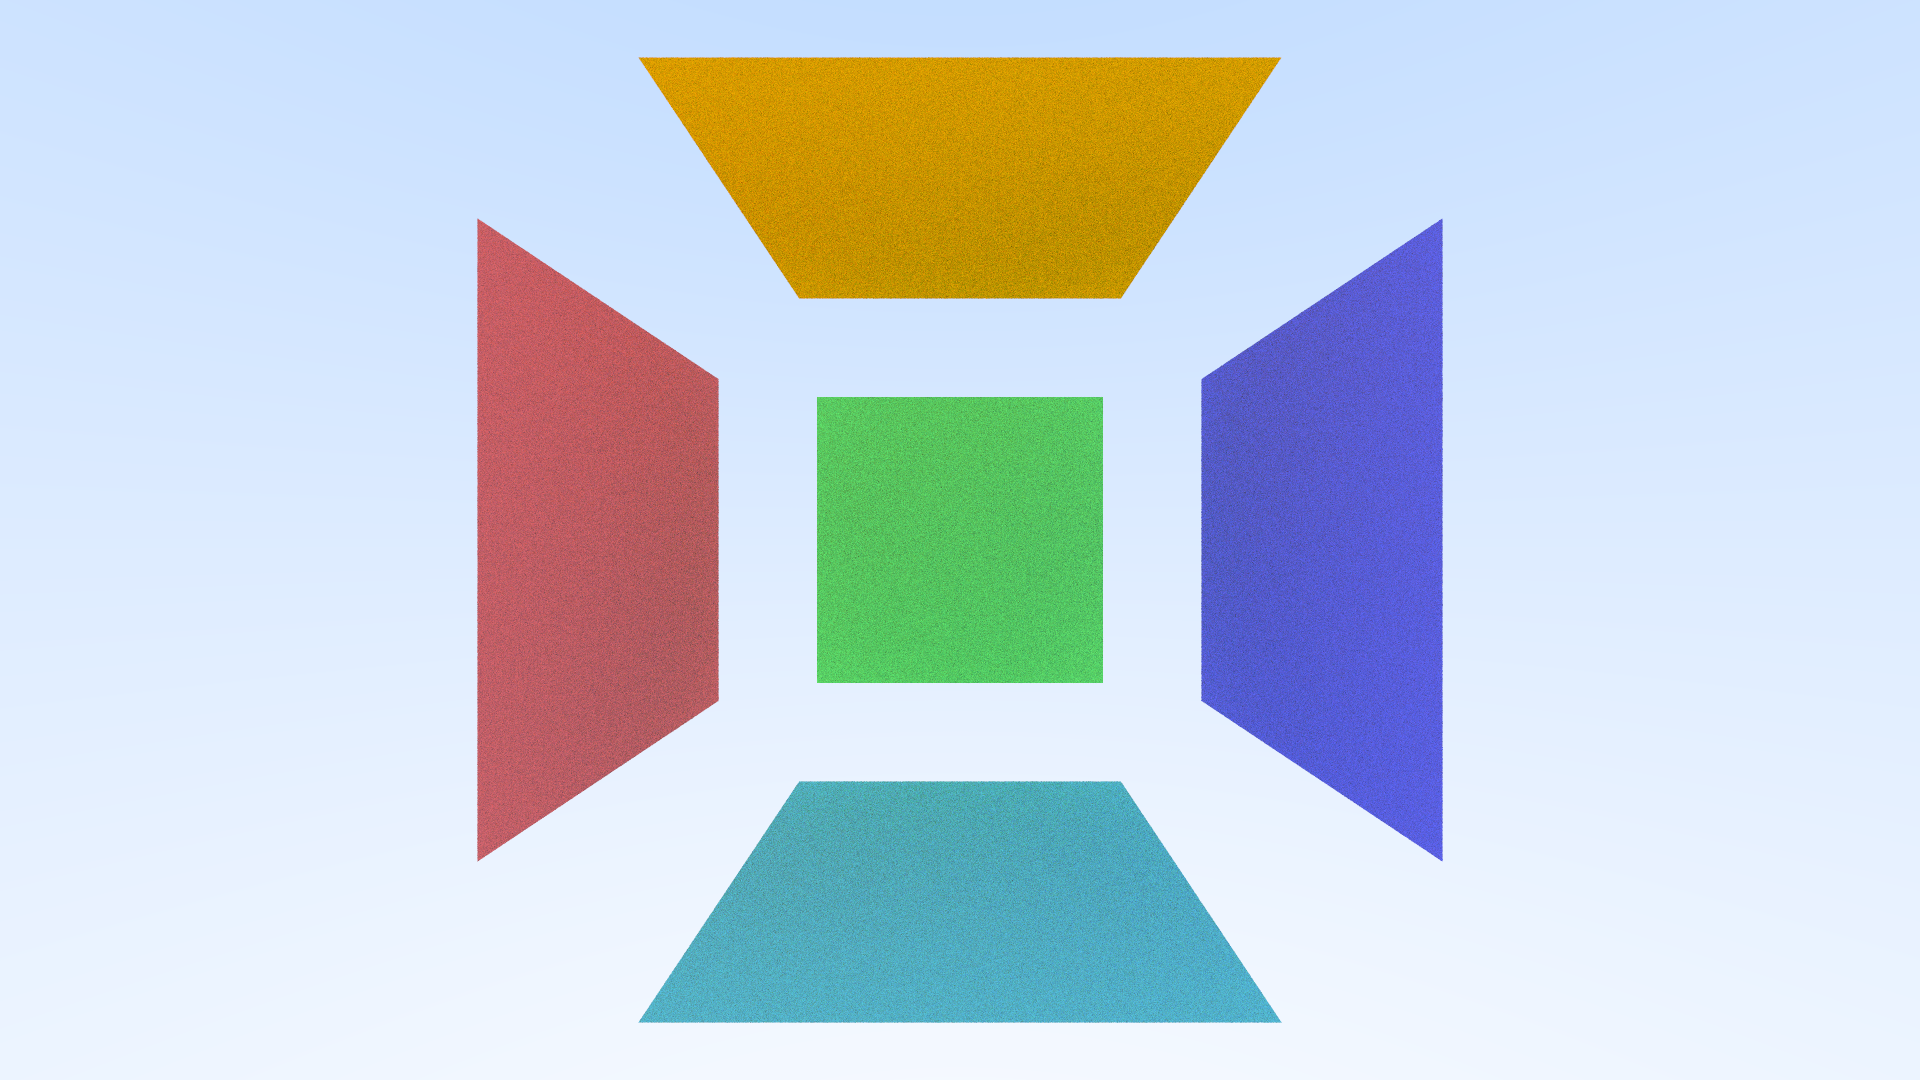
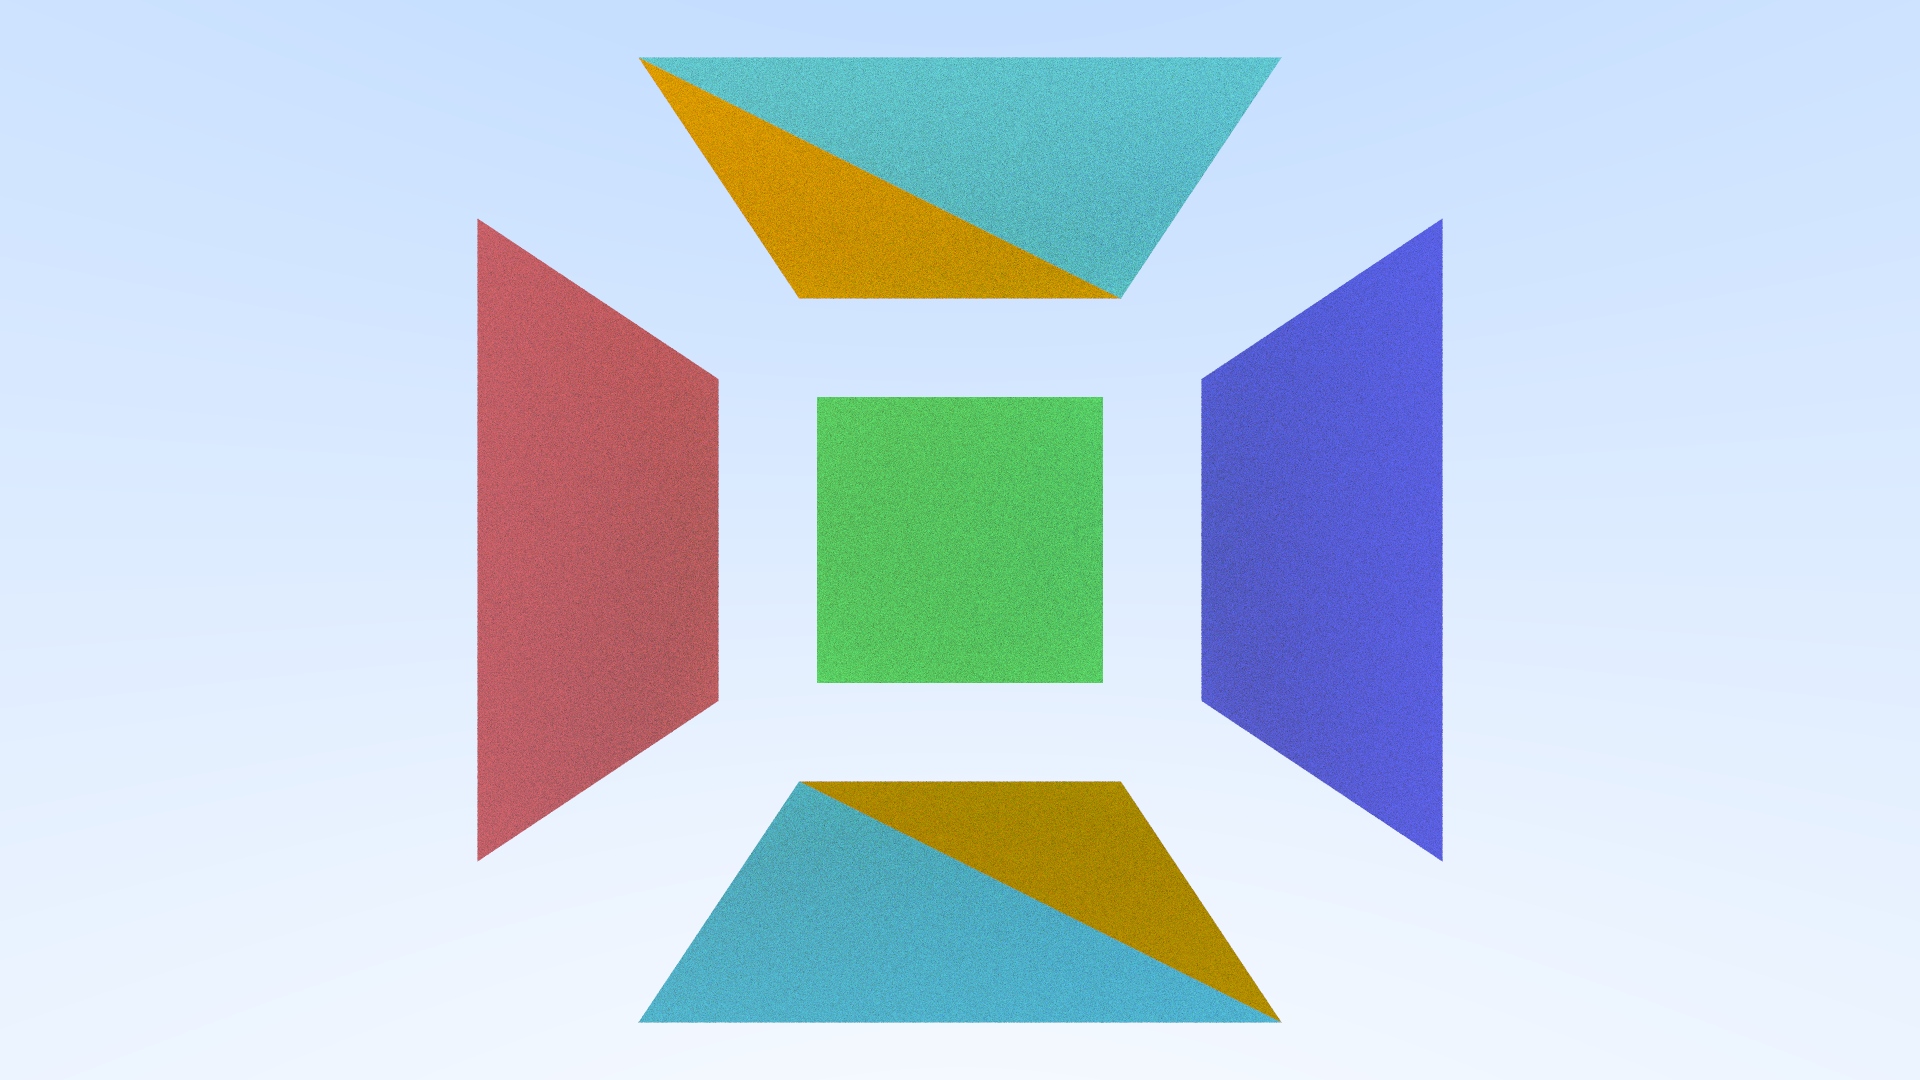
added triangles

diff --git a/src/bin/render.rs b/src/bin/render.rs
@@ -14,7 +14,12 @@ use simple_ray_tracer::{
 
 use simple_ray_tracer_kernels::{
     color::Color,
-    hitables::{HitKind, hitable_list_builder::HitableListBuilder, planar::Quad, sphere::Sphere},
+    hitables::{
+        HitKind,
+        hitable_list_builder::HitableListBuilder,
+        planar::{Quad, Triangle},
+        sphere::Sphere,
+    },
     materials::{dielectric::Dielectric, lambertian::Lambertian, metal::Metal},
     random::RandomRange,
     textures::{
@@ -138,7 +143,7 @@ fn perlin_spheres<'a>(options: &mut RenderOptions) -> HitableListBuilder<'a> {
     world
 }
 
-fn quads<'a>(options: &mut RenderOptions) -> HitableListBuilder<'a> {
+fn planar<'a>(options: &mut RenderOptions) -> HitableListBuilder<'a> {
     let mut world: HitableListBuilder<'_> = HitableListBuilder::new();
 
     // Materials
@@ -146,6 +151,8 @@ fn quads<'a>(options: &mut RenderOptions) -> HitableListBuilder<'a> {
     let back_green = Lambertian::new(SolidTexture::new(Color::new(0.2, 1.0, 0.2)).into());
     let right_blue = Lambertian::new(SolidTexture::new(Color::new(0.2, 0.2, 1.0)).into());
     let upper_orange = Lambertian::new(SolidTexture::new(Color::new(1.0, 0.5, 0.0)).into());
+    let upper_teal = Lambertian::new(SolidTexture::new(Color::new(0.2, 0.8, 0.8)).into());
+    let lower_orange = Lambertian::new(SolidTexture::new(Color::new(1.0, 0.5, 0.0)).into());
     let lower_teal = Lambertian::new(SolidTexture::new(Color::new(0.2, 0.8, 0.8)).into());
 
     // Quads
@@ -177,20 +184,38 @@ fn quads<'a>(options: &mut RenderOptions) -> HitableListBuilder<'a> {
         .into(),
     );
     world.add(
-        Quad::new(
+        Triangle::new(
+            Point3::new(-2.0, 3.0, 5.0),
+            Point3::new(2.0, 3.0, 5.0),
+            Point3::new(2.0, 3.0, 1.0),
+            upper_teal,
+        )
+        .into(),
+    );
+    world.add(
+        Triangle::new(
+            Point3::new(-2.0, 3.0, 5.0),
+            Point3::new(2.0, 3.0, 1.0),
             Point3::new(-2.0, 3.0, 1.0),
-            Vec3::new(4.0, 0.0, 0.0),
-            Vec3::new(0.0, 0.0, 4.0),
             upper_orange,
         )
         .into(),
     );
     world.add(
-        Quad::new(
+        Triangle::new(
             Point3::new(-2.0, -3.0, 5.0),
-            Vec3::new(4.0, 0.0, 0.0),
-            Vec3::new(0.0, 0.0, -4.0),
+            Point3::new(2.0, -3.0, 5.0),
+            Point3::new(-2.0, -3.0, 1.0),
             lower_teal,
+        )
+        .into(),
+    );
+    world.add(
+        Triangle::new(
+            Point3::new(2.0, -3.0, 5.0),
+            Point3::new(2.0, -3.0, 1.0),
+            Point3::new(-2.0, -3.0, 1.0),
+            lower_orange,
         )
         .into(),
     );
@@ -216,7 +241,7 @@ fn main() -> Result<()> {
         1 => bouncing_spheres()?,
         2 => earth(&mut options.render, &earth_image),
         3 => perlin_spheres(&mut options.render),
-        4 => quads(&mut options.render),
+        4 => planar(&mut options.render),
         _ => {
             panic!("Unknown scene {}", scene);
         }

diff --git a/kernels/src/hitables/planar.rs b/kernels/src/hitables/planar.rs
@@ -79,6 +79,63 @@ impl Plane {
 #[repr(C)]
 #[derive(Builder)]
 #[use_lifetime("'a")]
+pub struct Triangle<'a> {
+    origin: Point3,
+    u: Vec3,
+    v: Vec3,
+    plane: Plane,
+    mat: MaterialKind<'a>,
+}
+
+impl<'a> Triangle<'a> {
+    pub fn new(p1: Point3, p2: Point3, p3: Point3, mat: MaterialKind<'a>) -> Self {
+        let u = p2 - &p1;
+        let v = p3 - &p1;
+        let plane = Plane::from_uv(&p1, &u, &v);
+        Triangle {
+            origin: p1,
+            u,
+            v,
+            plane,
+            mat,
+        }
+    }
+}
+
+impl<'b> Hitable for Triangle<'b> {
+    fn hit<'a>(&'a self, ray: &Ray, t_range: &Range<Real>) -> Option<HitRecord<'a>> {
+        if let Some(hit) = self.plane.hit(ray, t_range) {
+            let (u, v) = self
+                .plane
+                .get_uv_coords(&hit.p, &self.origin, &self.u, &self.v);
+            if u >= 0.0 && v >= 0.0 && u + v <= 1.0 {
+                return Some(HitRecord {
+                    p: hit.p,
+                    normal: hit.normal,
+                    t: hit.t,
+                    is_front_face: hit.is_front_face,
+                    u,
+                    v,
+                    mat: &self.mat,
+                });
+            }
+        }
+        None
+    }
+}
+
+impl<'a> IntoBoundingBox for Triangle<'a> {
+    fn boundingbox(&self) -> BoundingBox {
+        // Compute the bounding box of all three vertices.
+        let bbox = BoundingBox::new_point(self.origin.clone());
+        let bbox = bbox.merge(&BoundingBox::new_point((&self.origin) + &self.u));
+        bbox.merge(&BoundingBox::new_point((&self.origin) + &self.v))
+    }
+}
+
+#[repr(C)]
+#[derive(Builder)]
+#[use_lifetime("'a")]
 pub struct Quad<'a> {
     origin: Point3,
     u: Vec3,

diff --git a/kernels/src/hitables/mod.rs b/kernels/src/hitables/mod.rs
@@ -6,7 +6,7 @@ use crate::{
     boundingbox::{BoundingBox, IntoBoundingBox},
     hitables::{
         hitable_list::{HitableList, HitableListDevice},
-        planar::{Quad, QuadDevice},
+        planar::{Quad, QuadDevice, Triangle, TriangleDevice},
         sphere::{Sphere, SphereDevice},
     },
     materials::MaterialKind,
@@ -34,6 +34,7 @@ pub trait Hitable {
 pub enum HitKind<'b> {
     Sphere(Sphere<'b>),
     Quad(Quad<'b>),
+    Triangle(Triangle<'b>),
     HitableList(HitableList<'b>),
 }
 
